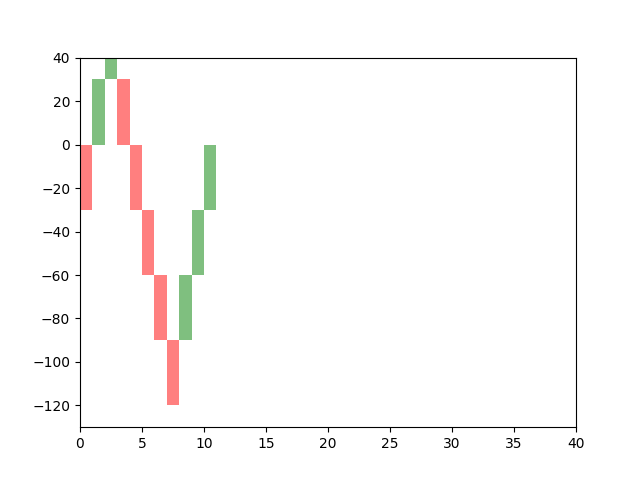
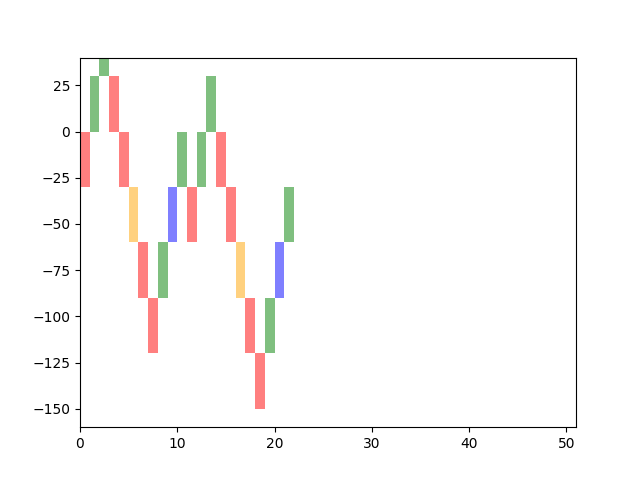
finally have buy sell algorithm correct

diff --git a/crypto-analysis/renko_trading_strategy/Renko.py b/crypto-analysis/renko_trading_strategy/Renko.py
@@ -85,30 +85,48 @@ class Renko:
 
             print("renko bricks:\n", renko_bricks)
 
-            rolling_window = []
+
+            rolling_window = []    
             # evaluate and build up renko_data
             for i in range(len(renko_bricks)):
                 if i < 5:
                     rolling_window.append(renko_bricks[i])
                     self.renko_data.append([renko_bricks[i], None])
+                    
 
                 else:
-                    # pattern match
-                    # sell
-                    if rolling_window == [1, 1, -1, -1, -1]:
-                        self.renko_data.append([renk_bricks[i], "sell"])
+                # pattern match
+                # buy pop/append sell
+                    match = False
+
                     # buy
-                    elif rolling_window == [-1, -1, -1, 1, 1]:
-                        self.renko_data.append([renk_bricks[i], "buy"])
-                    # no pattern
-                    else:
-                        self.renko_data.append([renko_bricks[i], None])
+                    if rolling_window == [-1, -1, -1, 1, 1]:
+                        self.renko_data.append([renko_bricks[i], "buy"])
+                        match = True
 
                     # remove first element & add next
                     if i + 1 < len(renko_bricks):
                         rolling_window.pop(0)
-                        rolling_window.append(i + 1)
+                        rolling_window.append(renko_bricks[i + 1])
+                    
+                    # sell
+                    print(i, "\t", rolling_window)
+                    if rolling_window == [1, 1, -1, -1, -1]:
+                        self.renko_data.append([renko_bricks[i], "sell"])
+                        match = True
+                        
+                    # no pattern
+                    if not match:
+                        self.renko_data.append([renko_bricks[i], None])
 
+                    # remove first element & add next
+                    #if i + 1 < len(renko_bricks):
+                    #    rolling_window.pop(0)
+                    #    rolling_window.append(renko_bricks[i + 1])
+
+
+            tmp = self.renko_data
+            self.renko_data.extend(tmp)
             print("renko_data:\n", self.renko_data)
             
 
@@ -165,25 +183,58 @@ class Renko:
         maxPrevNum = prev_num
 
         # build plot one block at a time and increment or update plot size vars
-        for index, lst in enumerate(self.renko_data):
-        #for i in range(len(self.renko_data)):
+        actionIndicator = -1
+        #for index, lst in enumerate(self.renko_data):
+        for i in range(len(self.renko_data)):
             
-            number = lst[0]
-            action = lst[1]
-            
-            if number == 1:
+            number = self.renko_data[i][0]
+            action = self.renko_data[i][1]
+
+            # set block color
+            # color for buy and sell
+            if action is not None:
+                if action == "sell":
+                    facecolor = "orange"
+                else:
+                    facecolor = "blue"
+                
+            # colors for no action
+            elif number == 1:
                 facecolor='green'
             else:
                 facecolor='red'
+            '''    
+            if i + 4 < len(self.renko_data) and (self.renko_data[i + 4][1] is not None or actionIndicator >= 0):
+                if self.renko_data[i + 4][1] == "buy":
+                    facecolor = 'blue'
+                    actionIndicator = 3
+                elif self.renko_data[i + 4][1] == "sell":
+                    facecolor = 'orange'
+                    actionIndicator = 3
+                # overly complex logic part
+                elif self.renko_data[i + 4 - actionIndicator][1] == "buy":
+                    facecolor = 'blue'
+                    actionIndicator -= 1
+
+                elif self.renko_data[i + 4 - actionIndicator][1] == "sell":
+                    facecolor = 'orange'
+                    actionIndicator -= 1
+
+                # reset actionIndicator
+                #if actionIndicator < 0:
+                #    actionIndicator = -1
+            '''
+            
+            
 
             prev_num += number
             
             renko = Rectangle(
-                (index, prev_num * self.BLOCK_SIZE), 1, self.BLOCK_SIZE,
+                (i, prev_num * self.BLOCK_SIZE), 1, self.BLOCK_SIZE,
                 facecolor=facecolor, alpha=0.5
             )
 
-            ind = index
+            ind = i
 
             if prev_num * self.BLOCK_SIZE < minPrevNum:
                 minPrevNum = prev_num * self.BLOCK_SIZE
